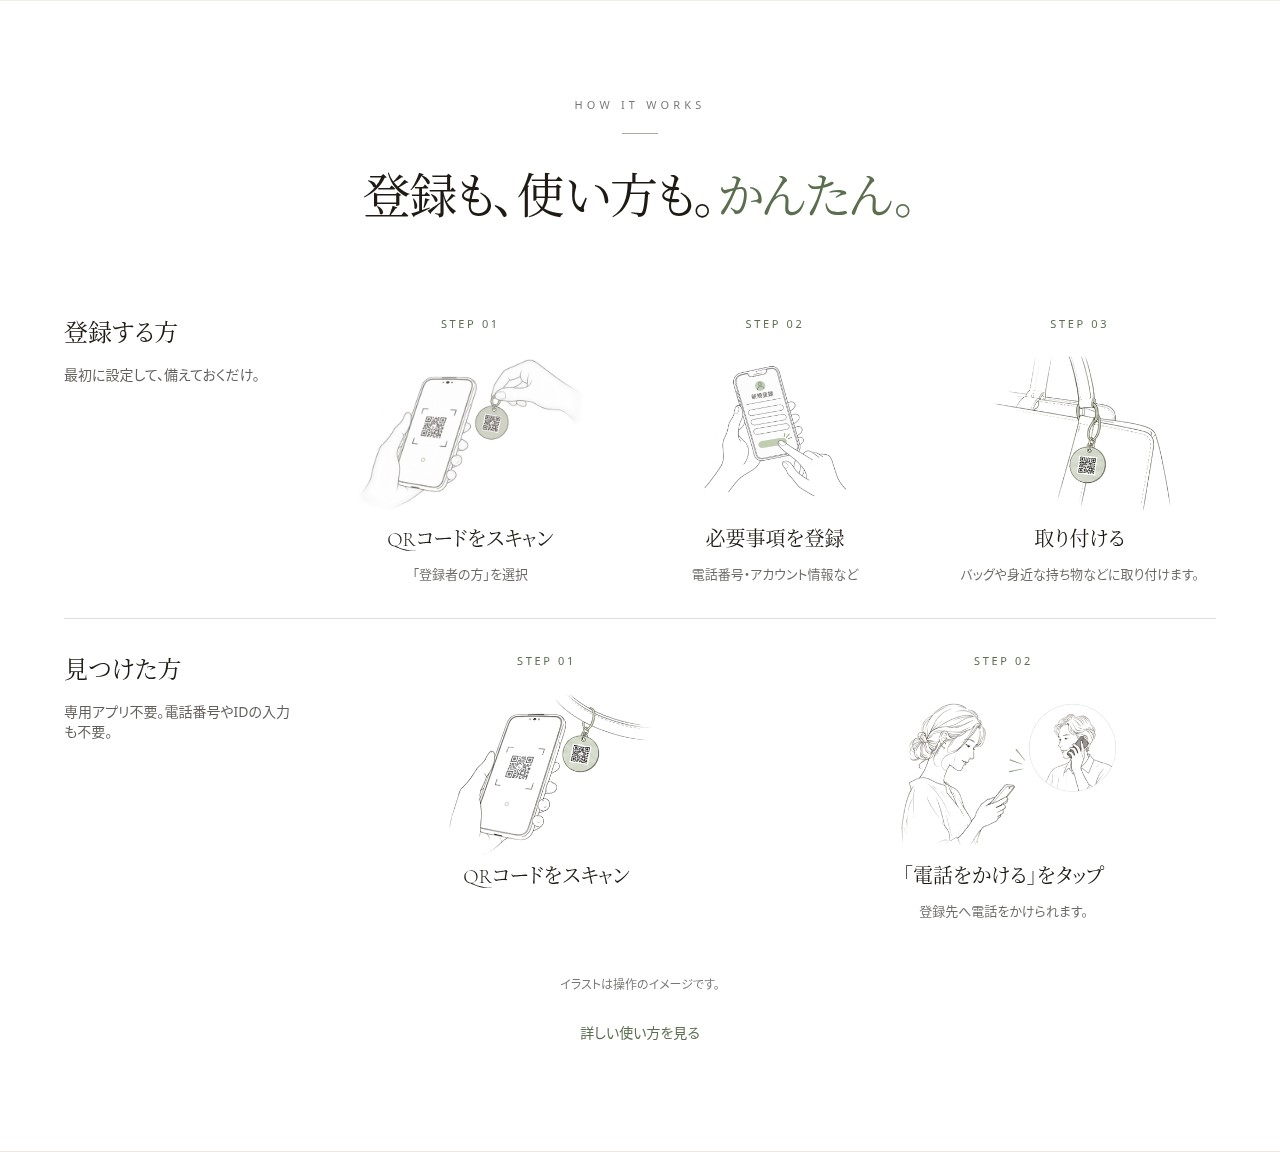
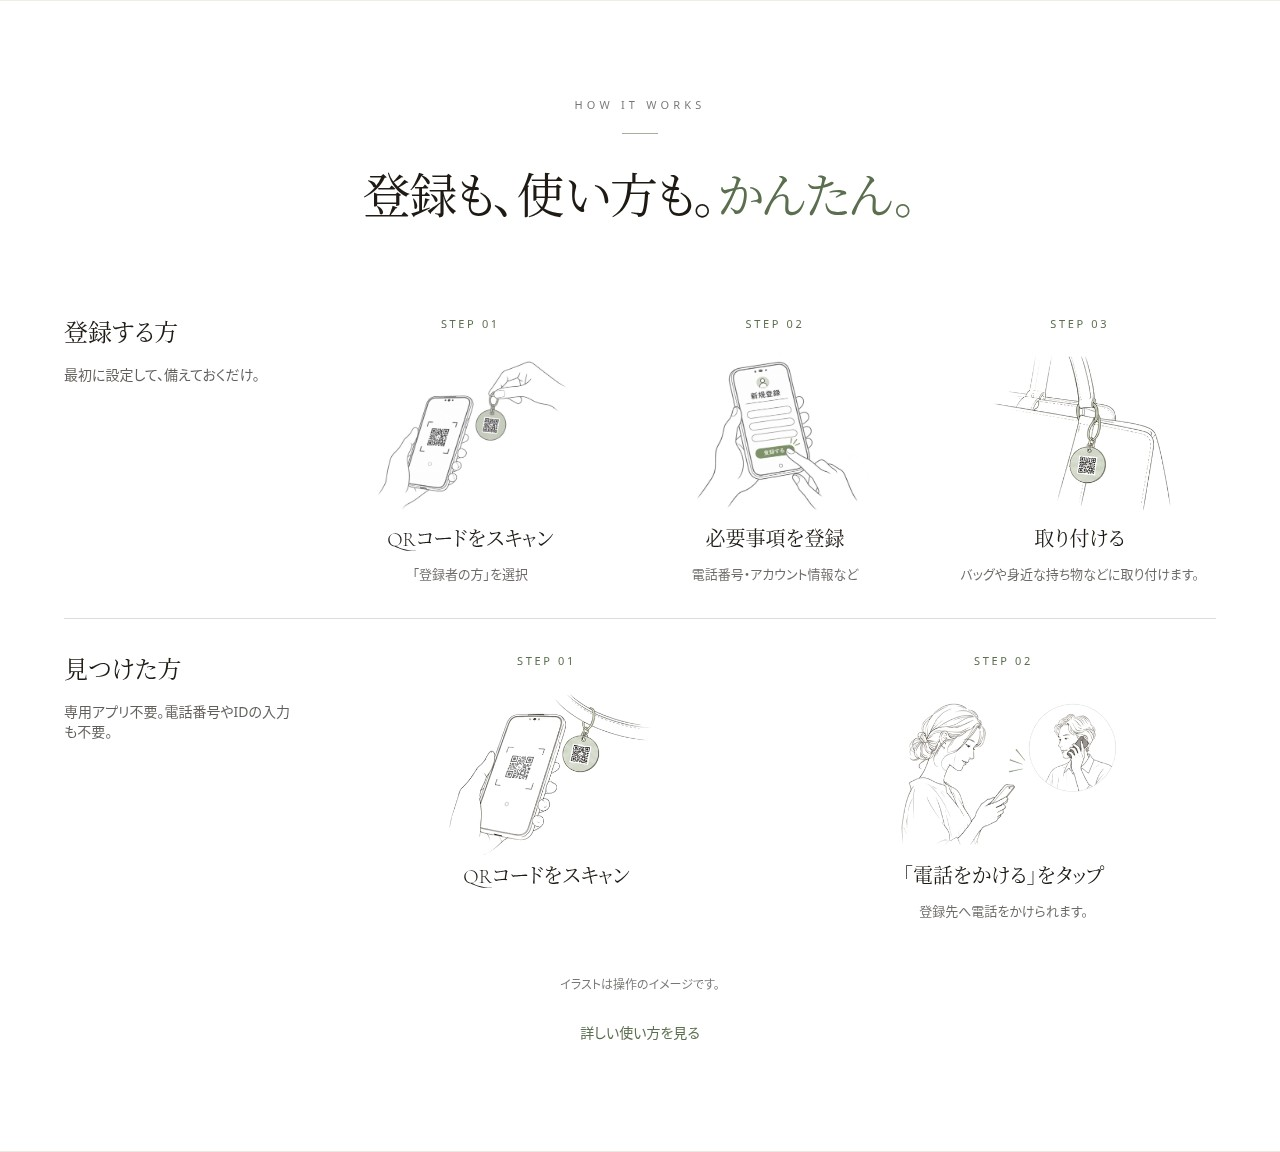
Use latest supplied registration scan and account illustrations

Changed region(s): [[0.5625, 0.3125, 0.6562, 0.4375], [0.3125, 0.3125, 0.4375, 0.4375]]

diff --git a/src/components/HowItWorks.tsx b/src/components/HowItWorks.tsx
@@ -4,8 +4,8 @@ import Image from "next/image";
 type Step = { title: string; detail?: string; image: string; alt: string };
 
 const REGISTER_STEPS: Step[] = [
-  { title: "QRコードをスキャン", detail: "「登録者の方」を選択", image: "/images/how-register-scan-5e4c222644e6.jpg", alt: "手に持った丸型QRタグをスマートフォンで読み取る登録操作のイメージ" },
-  { title: "必要事項を登録", detail: "電話番号・アカウント情報など", image: "/images/how-register-account-2d0e5f0d6f76.jpg", alt: "新規登録の入力欄と登録ボタンを操作するスマートフォンのイメージ" },
+  { title: "QRコードをスキャン", detail: "「登録者の方」を選択", image: "/images/how-register-scan-479d85a78ee1.jpg", alt: "手に持った丸型QRタグをスマートフォンで読み取る登録操作のイメージ" },
+  { title: "必要事項を登録", detail: "電話番号・アカウント情報など", image: "/images/how-register-account-9a67a5009767.jpg", alt: "新規登録の入力欄と登録ボタンを操作するスマートフォンのイメージ" },
   { title: "取り付ける", detail: "バッグや身近な持ち物などに取り付けます。", image: "/images/how-it-works-step-01.png", alt: "バッグに丸型QRキーホルダーが取り付けられているイラスト" },
 ];
 const FINDER_STEPS: Step[] = [

diff --git a/docs/home-register-image-update/README.md b/docs/home-register-image-update/README.md
@@ -4,12 +4,12 @@
 
 | 対象 | 旧参照 | 新参照 | 新しい原本 |
 | --- | --- | --- | --- |
-| 登録STEP 01 | `how-register-scan-a870f12eb6ca.jpg` | `how-register-scan-5e4c222644e6.jpg` | `1-写真1.jpg`、1280×853、71,149 bytes |
-| 登録STEP 02 | `how-register-account-4226bab9bcda.jpg` | `how-register-account-2d0e5f0d6f76.jpg` | `2-写真2.jpg`、1169×1280、90,631 bytes |
+| 登録STEP 01 | `how-register-scan-a870f12eb6ca.jpg` | `how-register-scan-479d85a78ee1.jpg` | `1-写真1.jpg`、1280×853、64,700 bytes |
+| 登録STEP 02 | `how-register-account-4226bab9bcda.jpg` | `how-register-account-9a67a5009767.jpg` | `2-写真2.jpg`、1280×853、74,128 bytes |
 
-保存先はすべて `public/images/`。旧ファイルは保持し、新しい内容ハッシュ付きファイル名により旧キャッシュと区別する。添付原本のコピーのみで、生成・加工・色調変更・トリミング・形式変換・圧縮はしない。
+保存先はすべて `public/images/`。mainの旧ファイルは保持し、新しい内容ハッシュ付きファイル名により旧キャッシュと区別する。添付原本のコピーのみで、生成・加工・色調変更・トリミング・形式変換・圧縮はしない。
 
-STEP 02は縦長の原本。既存の共通表示枠と `object-fit: contain` で比率を保持し、被写体を切り取らない。他3画像・文章・alt・CSS・SERVICE・SEO・仕様は変更しない。実装ファイルは画像URL2箇所のみであることをmainとの差分で確認する。
+今回の2枚はいずれも1280×853の原本。既存の共通表示枠と `object-fit: contain` で比率を保持し、被写体を切り取らない。他3画像・文章・alt・CSS・SERVICE・SEO・仕様は変更しない。実装ファイルは画像URL2箇所のみであることをmainとの差分で確認する。
 
 ## 検証
 
